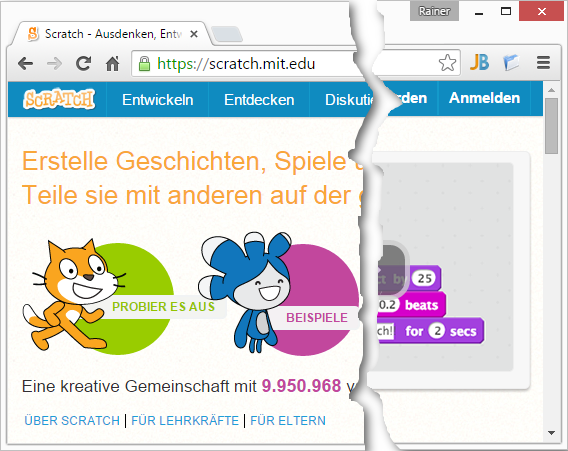
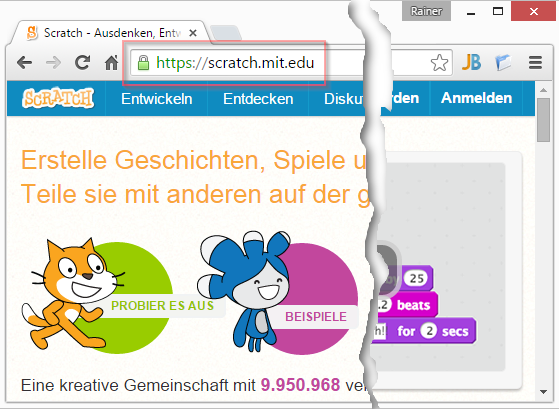
Konto anlegen erweitert

diff --git a/trainingsanleitungen/scratch/scratch-konto-anlegen.md b/trainingsanleitungen/scratch/scratch-konto-anlegen.md
@@ -10,11 +10,35 @@ Um deine Projekte in Scratch speichern und teilen zu können, brauchst du ein Ko
 
 ## Scratch Konto anlegen ##
 
+Du hast gerade ganz wenig Zeit und möchtest ohne Scratch Konto anfangen zu entwickeln? Überspringe einfach diesen Teil und mach weiter bei *Scratch starten*. Aber Achtung: Du kannst deine Projekte ohne Konto nicht speichern oder veröffentlichen!
+
 1. ![Scratch Webseite öffnen](scratch-konto-anlegen/scratch-webseite-starten.png)
-Öffne einen Webbrowser (z.B. Internet Explorer, Chrome, Firefox) und gib in der Adresszeile die Adresse [scratch.mit.edu](https://scratch.mit.edu){:target="_blank"} ein und drücke *Enter*. Im Bild rechts siehst du *https://* for der Scratch-Adresse. Das musst du nicht unbedingt eingeben. Es wird automatisch erscheinen, nachdem du auf die *Enter-*Taste gedrückt hast.
+Öffne einen Webbrowser, gib in der Adresszeile die Adresse [scratch.mit.edu](https://scratch.mit.edu){:target="_blank"} ein und drücke *Enter*. Das *https://* vor der Scratch-Adresse musst du nicht unbedingt eingeben. Es wird automatisch erscheinen, nachdem du auf *Enter* gedrückt hast.
 
 2. ![Scratch Webseite auf Deutsch umschalten](scratch-konto-anlegen/scratch-webseite-deutsch.png)
-Falls die Scratch-Seite nicht in Deutsch angezeigt wird, scrolle ganz nach unten und wähle in der Combobox *Deutsch* aus.
+Falls die Scratch-Seite nicht in Deutsch angezeigt wird, scrolle ganz nach unten und wähle aus der Liste der Sprachen *Deutsch* aus.
 
 3. ![Scratch Konto anlegen](scratch-konto-anlegen/scratcher-werden.png)
 Klicke rechts oben *Scratcher werden* an.
+
+4. ![Deine Daten eingeben](scratch-konto-anlegen/scratcher-werden-schritt-1.png)
+Beantworte die Fragen über dich, die für das Anlegen des Scratch-Kontos notwendig sind. Sobald du eine Seite ganz ausgefüllt hast, klicke auf *Weiter*, um auf die nächste Seite zu kommen. Falls du dir bei manchen Fragen nicht sicher bist oder du noch keine Emailadresse hast, bitte deine Eltern oder einen CoderDojo-Mentor dir zu helfen.
+
+5. ![Deine Daten eingeben](scratch-konto-anlegen/scratcher-werden-schritt-4.png)
+Hast du es bis auf Seite vier geschafft? Gratuliere, du bist jetzt ein Scratcher :-) Klicke auf *Gut - Los geht's*, um zu starten.
+
+6. ![Email bestätigen](scratch-konto-anlegen/scratch-email-bestaetigen.png)
+Du wirst von Scratch eine Willkommensnachricht per Email erhalten. Wenn du Zeit hast, öffne die Email und klicke auf *Bestätige meine Emailadresse*, damit Scratch weiß, dass du deine Emailadresse richtig eingegeben hast. Diesen Schritt musst du nicht sofort machen. Falls du gerade nicht auf deine Emails zugreifen kannst, mach diesen Schritt einfach später.
+
+## Scratch starten ##
+
+1. ![Entwicklung starten](scratch-konto-anlegen/scratch-entwickeln.png)
+Um dein erstes Spiel zu erstellen, klicke auf *Entwickeln*.
+
+2. ![Der Scratch Editor](scratch-konto-anlegen/scratch-editor.png)
+Jetzt bist du im *Scratch Editor* und kannst beginnen, dein erstes Spiel zu entwickeln. Verwende weitere Trainingsanleitungen, falls du erste Ideen und Anleitungen möchtest.
+
+
+
+
+
